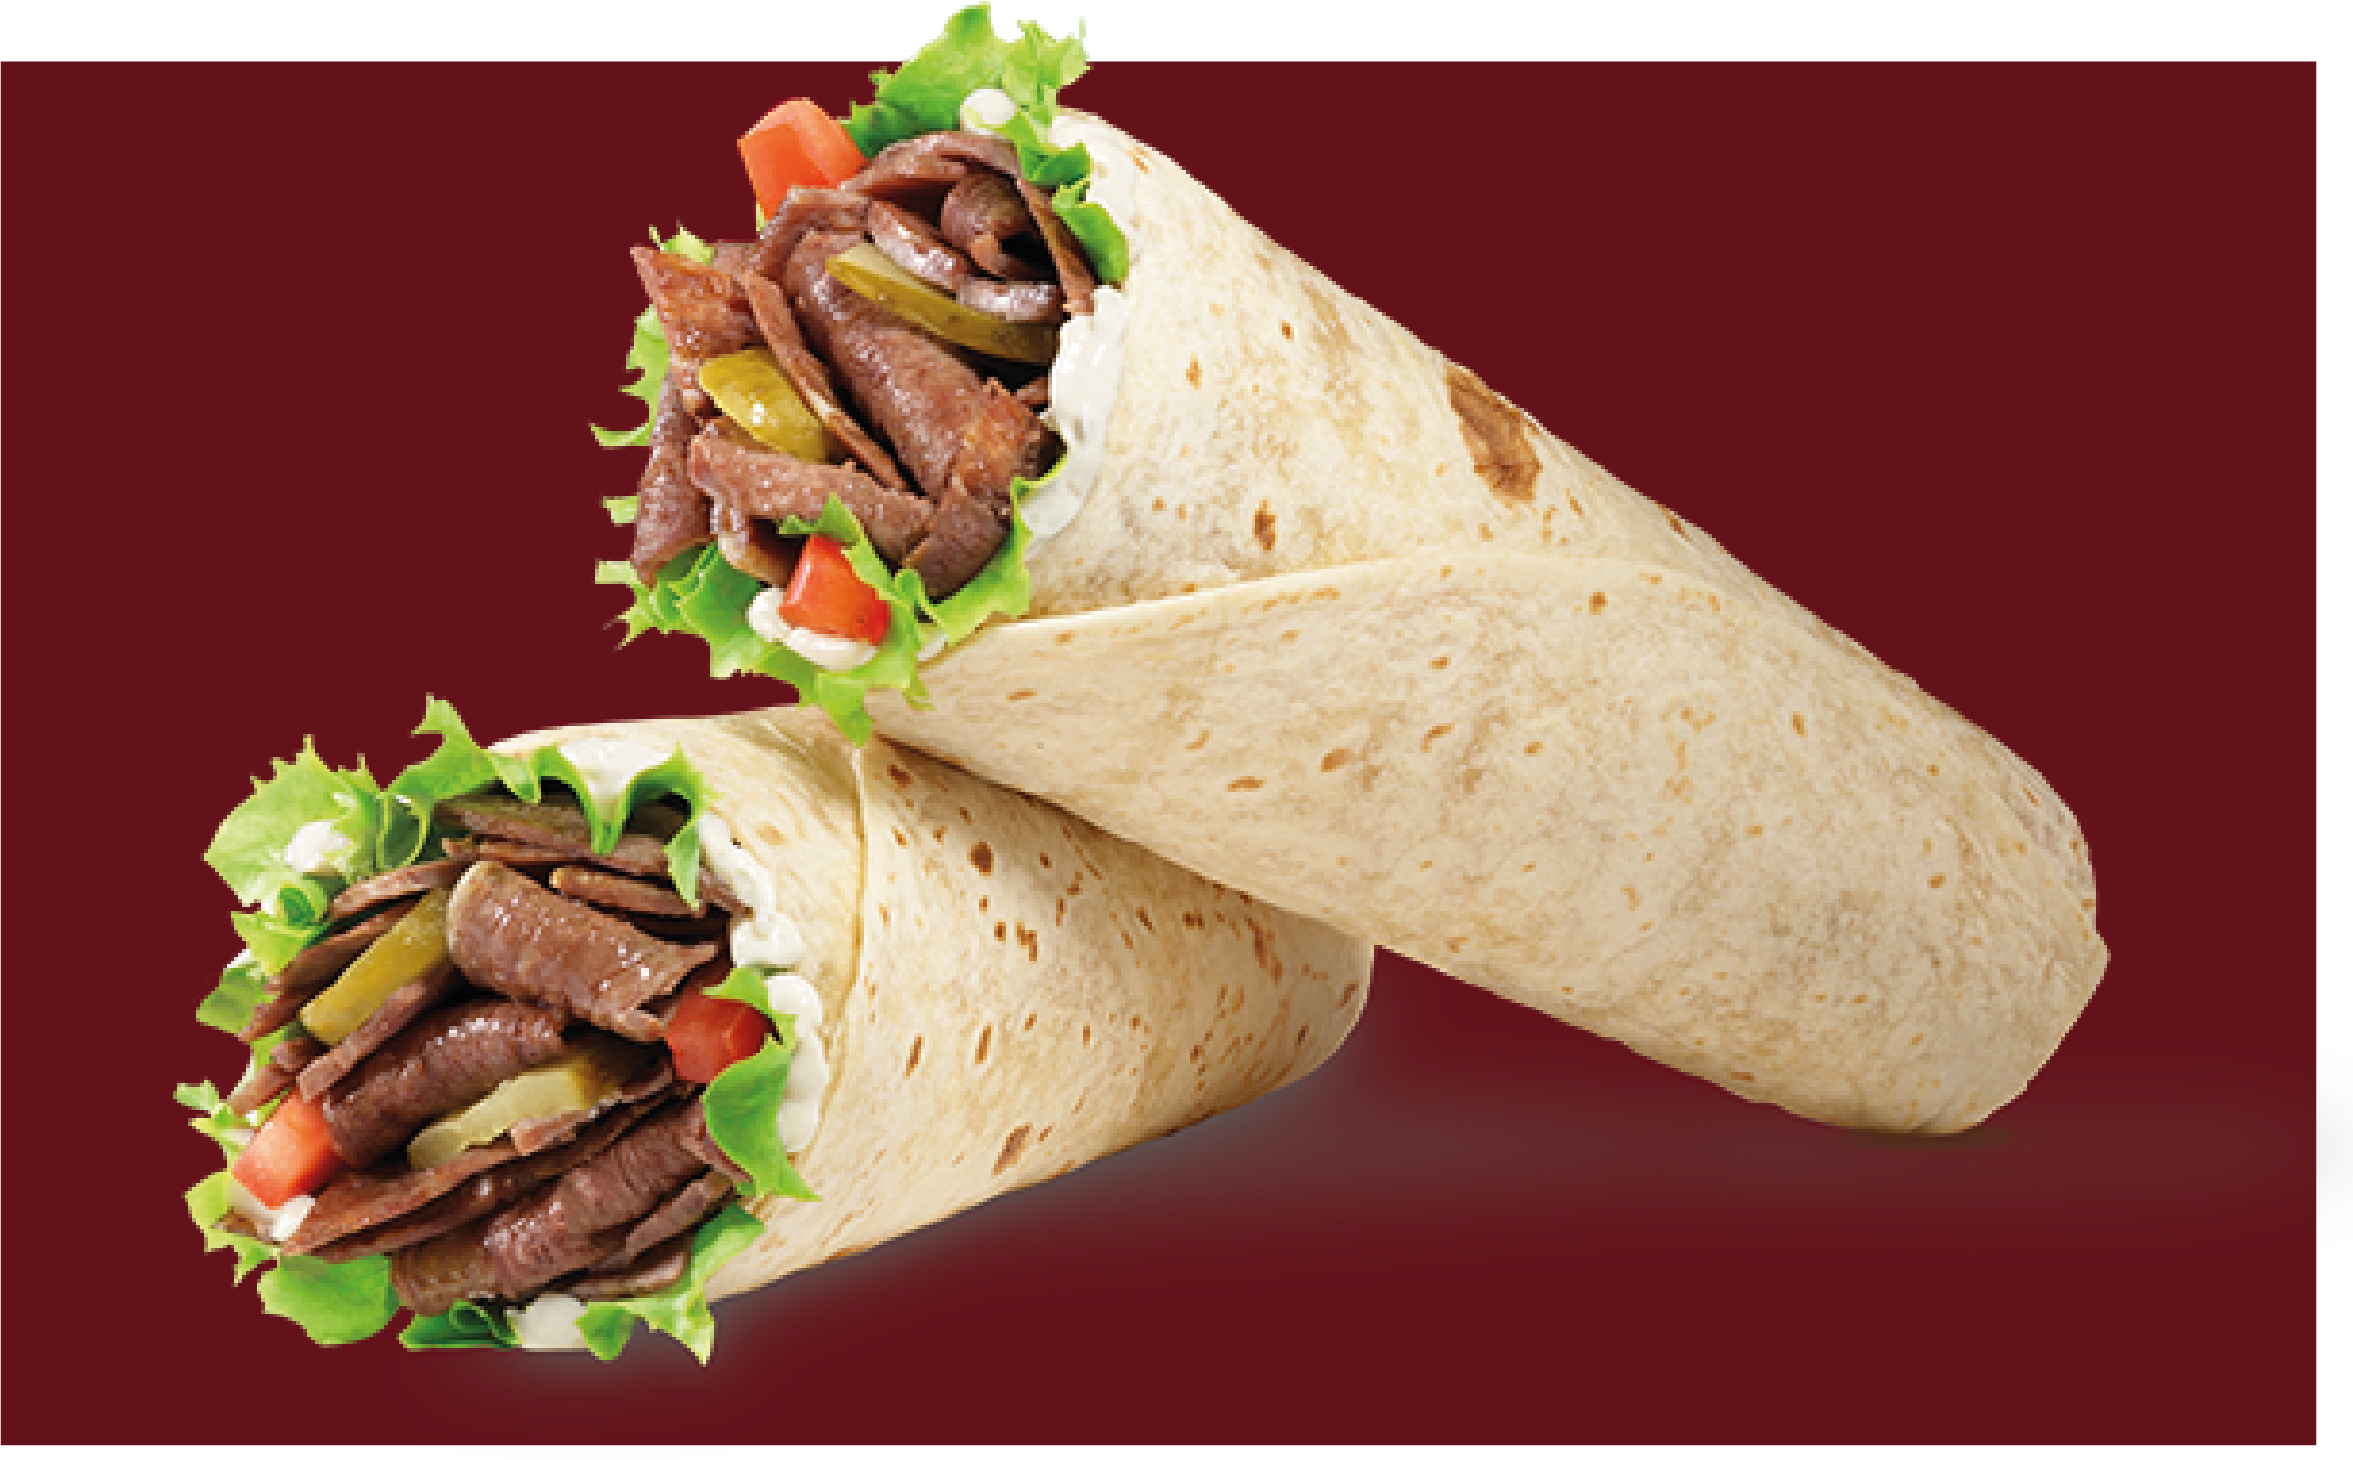
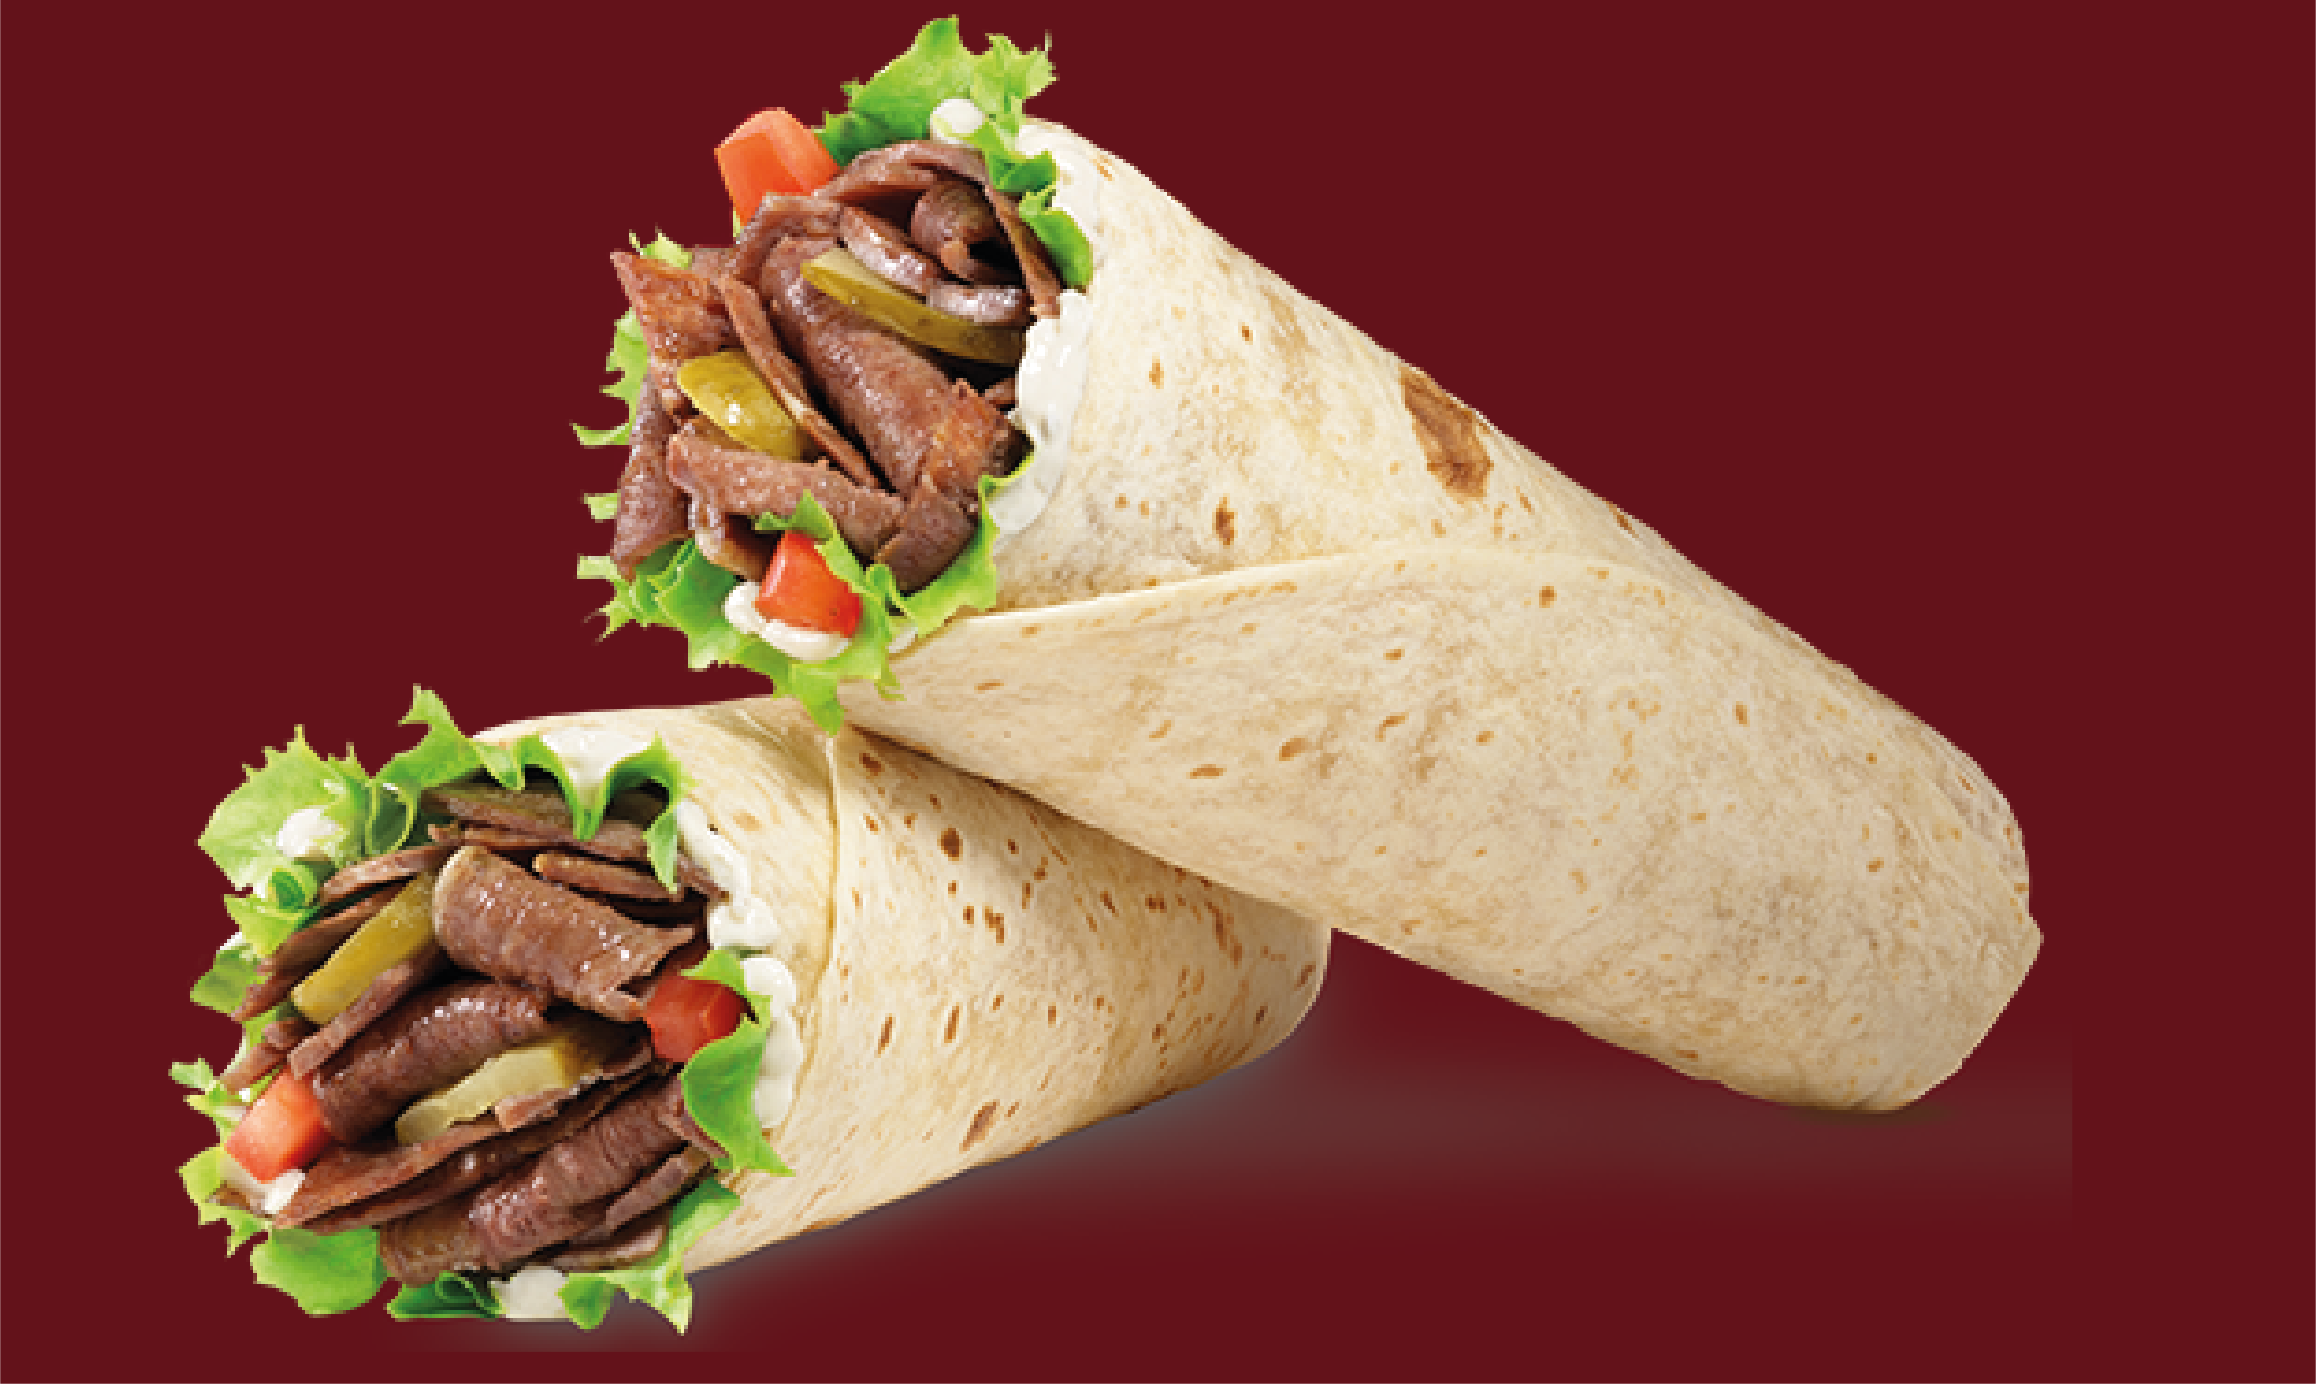
mettre le prix pour dessert

diff --git a/src/components/CategoriesSidebar.tsx b/src/components/CategoriesSidebar.tsx
@@ -1,0 +1,52 @@
+"use client";
+
+import Link from "next/link";
+import { usePathname } from "next/navigation";
+import Image from "next/image";
+
+const categories = [
+  { label: "Burgers", path: "/burgers", image: "burgers.png" },
+  { label: "Tacos", path: "/tacos", image: "tacos.png" },
+  { label: "Desserts", path: "/desserts", image: "desserts.png" },
+  { label: "Pizzas", path: "/pizzas", image: "pizzas.png" },
+  { label: "Salades", path: "/salades", image: "salades.png" },
+  { label: "Boissons", path: "/boissons", image: "boissons.png" },
+];
+
+export default function CategoriesSidebar() {
+  const pathname = usePathname();
+
+  return (
+    <aside className="hidden md:flex flex-col items-center w-24 bg-white py-6 shadow-md">
+      {categories.map((cat) => {
+        const isActive =
+          cat.path === "/" ? pathname === "/" : pathname.startsWith(cat.path);
+
+        return (
+          <Link key={cat.label} href={cat.path} className="mb-6 flex flex-col items-center group">
+            <div
+              className={`w-14 h-14 rounded-full overflow-hidden shadow-md ${
+                isActive ? "ring-4 ring-orange-500" : ""
+              } transition`}
+            >
+              <Image
+                src={`/ImgMenu/${cat.image}`}
+                alt={cat.label}
+                width={56}
+                height={56}
+                className="object-cover w-full h-full"
+              />
+            </div>
+            <span
+              className={`mt-2 text-xs font-medium text-center ${
+                isActive ? "text-orange-600" : "text-gray-700"
+              }`}
+            >
+              {cat.label}
+            </span>
+          </Link>
+        );
+      })}
+    </aside>
+  );
+}

diff --git a/src/components/Header/Navbar.tsx b/src/components/Header/Navbar.tsx
@@ -8,13 +8,13 @@ import { motion } from "framer-motion";
 import { FaHeart, FaRegUserCircle, FaSearch, FaTimes } from "react-icons/fa";
 
 const categories = [
-  { label: "Home", path: "/", image: "home.png" },
-  { label: "Offres", path: "/offres", image: "offres.png" },
+ 
   { label: "Burgers", path: "/burgers", image: "burgers.png" },
   { label: "Tacos", path: "/tacos", image: "tacos.png" },
+  { label: "Desserts", path: "/desserts", image: "desserts.png" },
   { label: "Pizzas", path: "/pizzas", image: "pizzas.png" },
   { label: "Salades", path: "/salades", image: "salades.png" },
-  { label: "Desserts", path: "/desserts", image: "desserts.png" },
+
   { label: "Boissons", path: "/boissons", image: "boissons.png" },
 ];
 
@@ -89,7 +89,7 @@ export default function Navbar() {
       </div>
 
       {/* Ligne 2 : catégories */}
-      <div className="flex justify-center py-4 px-4 overflow-x-auto scrollbar-hide bg-gray-50">
+      <div className="flex justify-center py-4 px-4 overflow-x-auto scrollbar-hide  ">
         <ul className="flex space-x-8 items-center justify-center w-max">
           {categories.map((cat) => {
             const isActive =
@@ -99,7 +99,7 @@ export default function Navbar() {
               <li key={cat.label} className="flex flex-col items-center text-xs">
                 <Link
                   href={cat.path}
-                  className={`rounded-2xl overflow-hidden w-[96px] h-[96px] flex items-center justify-center ${
+                  className={`rounded-2xl overflow-hidden w-[96px] h-[96px] flex items-center justify-center cursor-pointer ${
                     isActive ? "ring-4 ring-orange-500" : "shadow-md"
                   } transition-transform hover:scale-105`}
                 >

diff --git a/src/app/layout.tsx b/src/app/layout.tsx
@@ -1,10 +1,13 @@
+// app/layout.tsx
 import type { Metadata } from "next";
 import "./globals.css";
 import Footer from "@/components/Bottom/Footer";
 import Navbar from "@/components/Header/Navbar";
 import PromoCards from "@/components/Bottom/PromoCards";
-import { getServerSession } from "next-auth";
+  
 import { Providers } from "@/components/Providers";
+import { getServerSession } from "next-auth";
+ 
 
 export const metadata: Metadata = {
   title: "Create Next App",
@@ -13,21 +16,30 @@ export const metadata: Metadata = {
 
 export default async function RootLayout({
   children,
-}: Readonly<{
+}: {
   children: React.ReactNode;
-}>) {
+}) {
   const session = await getServerSession();
-  
+
   return (
     <html lang="en">
-      <body className="min-h-screen flex flex-col antialiased">
-        <Providers session={session}>
-          <Navbar />
-          <main className="flex-1">{children}</main>
-          <PromoCards />
-          <Footer />
-        </Providers>
-      </body>
+      {/* flex ligne : [sidebar] [colonne principale] */}
+      <body className="min-h-screen flex bg-gray-50">
+  <Providers session={session}>
+    
+
+    {/* Contenu principal */}
+    <div className="flex flex-col flex-1">
+      <Navbar />
+      {/* Sidebar vertical */}
+   
+      <main className="flex-1">{children}</main>
+      <PromoCards />
+      <Footer />
+    </div>
+  </Providers>
+</body>
+
     </html>
   );
 }

diff --git a/src/app/page.tsx b/src/app/page.tsx
@@ -1,6 +1,7 @@
 import CardFood from "@/components/Card";
 import React from "react";
 import FoodLayout from "./layouts/FoodLayout";
+ 
 
 export default async function Page() {
   const data = await fetch(process.env.API_KEY! + "/resource");
@@ -9,7 +10,9 @@ export default async function Page() {
 
   return (
     <>
+    {/* Sidebar vertical */}
       <FoodLayout title="Les Burgers">
+  
         <div className="grid grid-cols-4 gap-2 flex-wrap">
           {parsed.map((burger, index: number) => (
             <CardFood key={index} {...burger} />

diff --git a/src/components/Card.tsx b/src/components/Card.tsx
@@ -57,7 +57,7 @@ export default function CardFood({
   const prixAffiche =
     prix && prix.length > tailleIdx && typeof prix[tailleIdx] === "number"
       ? `${prix[tailleIdx].toFixed(2)} €`
-      : "Prix indisponible";
+      : prix + "€";
 
   const { addCard, addBasket } = useCardStore();
 

diff --git a/src/app/desserts/page.tsx b/src/app/desserts/page.tsx
@@ -1,6 +1,4 @@
-import FoodLayout from "../layouts/FoodLayout";
-import CardFood from "@/components/Card";
-import React from "react";
+ import React from "react";
 import FoodPage from "../layouts/FoodPage";
 
 export default function DessertsPage() {
